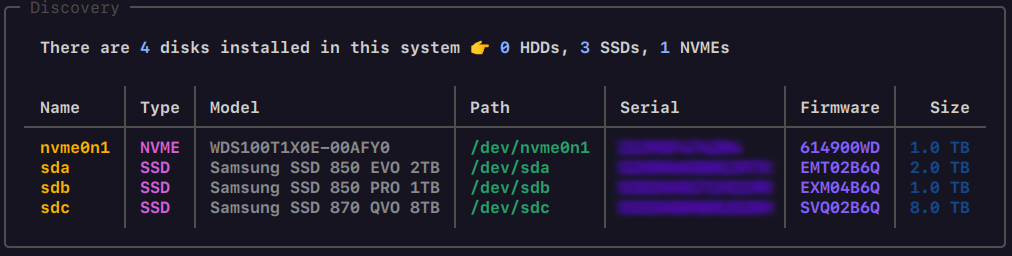
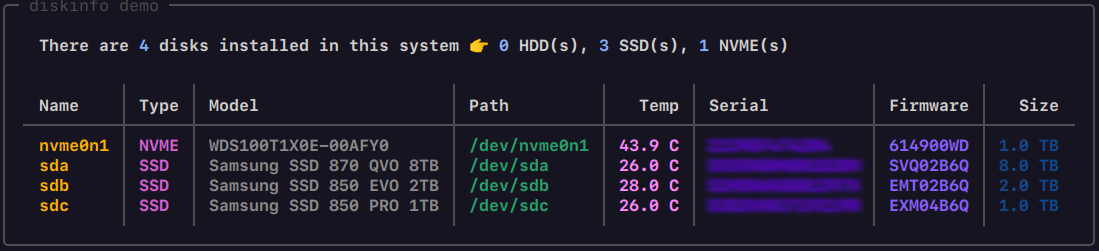
New: `Disk` class can return disk temperature (feature request in issue #2 implemented)

diff --git a/test/test_disk.py b/test/test_disk.py
@@ -2,6 +2,7 @@
 #    Unitest for `disk` module
 #    Peter Sulyok (C) 2022.
 #
+import glob
 import os
 import shutil
 import random
@@ -17,11 +18,17 @@ class DiskTest(unittest.TestCase):
     def pt_init_p1(self, disk_name: str, disk_type: int, error: str) -> None:
         """Primitive positive test function. It contains the following steps:
             - create TestData class
-            - mock os.readlink(), os.listdir(), os.path.exists() and builtins.open() functions
+            - mock glob.glob(), os.readlink(), os.listdir(), os.path.exists() and builtins.open() functions
             - create Disk() class instance based on test data in all five ways
             - ASSERT: if any attribute of the class is different from the generated test data
             - delete all instance
         """
+
+        # Mock function for glob.glob().
+        def mocked_glob(file: str, *args, **kwargs):
+            if file.startswith('/sys/block'):
+                file = my_td.td_dir + file
+            return original_glob(file, *args, **kwargs)
 
         # Mock function for os.readlink().
         def mocked_readlink(path: str,  *args, **kwargs):
@@ -41,6 +48,8 @@ class DiskTest(unittest.TestCase):
 
         my_td = TestData()
         my_td.create_disks([disk_name], [disk_type])
+        original_glob = glob.glob
+        mock_glob = MagicMock(side_effect=mocked_glob)
         original_readlink = os.readlink
         mock_readlink = MagicMock(side_effect=mocked_readlink)
         original_listdir = os.listdir
@@ -49,7 +58,8 @@ class DiskTest(unittest.TestCase):
         mock_exists = MagicMock(side_effect=mocked_exists)
         original_open = open
         mock_open = MagicMock(side_effect=mocked_open)
-        with patch('os.readlink', mock_readlink), \
+        with patch('glob.glob', mock_glob), \
+             patch('os.readlink', mock_readlink), \
              patch('os.listdir', mock_listdir), \
              patch('os.path.exists', mock_exists), \
              patch('builtins.open', mock_open):
@@ -265,6 +275,113 @@ class DiskTest(unittest.TestCase):
         self.pt_gsih_p1(4398046511104, (4398046511104*512)/1000/1000/1000/1000/1000, "PB", 0, "get_size_in_hrf 16")
         self.pt_gsih_p1(4398046511104, (4398046511104*512)/1024/1024/1024/1024/1024, "PiB", 1, "get_size_in_hrf 17")
         self.pt_gsih_p1(4398046511104, (4398046511104*512)/1024/1024/1024/1024/1024, "PB", 2, "get_size_in_hrf 18")
+
+    def pt_gt_p1(self, disk_name: str, disk_type: int, error: str) -> None:
+        """Primitive positive test function. It contains the following steps:
+            - create TestData class
+            - mock glob.glob(), os.path.exists() and builtins.open() functions
+            - create Disk() class instance based on test data in all five ways
+            - call get_temperature() method
+            - ASSERT: if the returned temperature is different from the generated test data
+            - delete all instance
+        """
+
+        # Mock function for glob.glob().
+        def mocked_glob(file: str, *args, **kwargs):
+            if file.startswith('/sys/block'):
+                file = my_td.td_dir + file
+            return original_glob(file, *args, **kwargs)
+
+        # Mock function for os.path.exists().
+        def mocked_exists(path: str):
+            if not path.startswith(my_td.td_dir):
+                path = my_td.td_dir + path
+            return original_exists(path)
+
+        # Mock function for builtin.open().
+        def mocked_open(path: str,  *args, **kwargs):
+            if not path.startswith(my_td.td_dir):
+                path = my_td.td_dir + path
+            return original_open(path, *args, **kwargs)
+
+        my_td = TestData()
+        my_td.create_disks([disk_name], [disk_type])
+        original_glob = glob.glob
+        mock_glob = MagicMock(side_effect=mocked_glob)
+        original_exists = os.path.exists
+        mock_exists = MagicMock(side_effect=mocked_exists)
+        original_open = open
+        mock_open = MagicMock(side_effect=mocked_open)
+        with patch('glob.glob', mock_glob), \
+             patch('os.path.exists', mock_exists), \
+             patch('builtins.open', mock_open):
+            d = Disk(disk_name)
+            temp_str = Disk._read_file(my_td.disks[0].hwmon_path)
+            temp_val = float(temp_str) / 1000.0
+            self.assertEqual(d.get_temperature(), temp_val, error)
+            del d
+        del my_td
+
+    def pt_gt_n1(self, disk_name: str, disk_type: int, error: str) -> None:
+        """Primitive negative test function. It contains the following steps:
+            - create TestData class
+            - mock glob.glob(), os.path.exists() and builtins.open() functions
+            - create Disk() class instance
+            - call get_temperature() method
+            - ASSERT: if assertion is not raised in case of missing hwmon_path
+            - delete all instance
+        """
+
+        # Mock function for glob.glob().
+        def mocked_glob(file: str, *args, **kwargs):
+            if file.startswith('/sys/block'):
+                file = my_td.td_dir + file
+            return original_glob(file, *args, **kwargs)
+
+        # Mock function for os.path.exists().
+        def mocked_exists(path: str):
+            if not path.startswith(my_td.td_dir):
+                path = my_td.td_dir + path
+            return original_exists(path)
+
+        # Mock function for builtin.open().
+        def mocked_open(path: str,  *args, **kwargs):
+            if not path.startswith(my_td.td_dir):
+                path = my_td.td_dir + path
+            return original_open(path, *args, **kwargs)
+
+        my_td = TestData()
+        my_td.create_disks([disk_name], [disk_type])
+        original_glob = glob.glob
+        mock_glob = MagicMock(side_effect=mocked_glob)
+        original_exists = os.path.exists
+        mock_exists = MagicMock(side_effect=mocked_exists)
+        original_open = open
+        mock_open = MagicMock(side_effect=mocked_open)
+        with patch('glob.glob', mock_glob), \
+             patch('os.path.exists', mock_exists), \
+             patch('builtins.open', mock_open):
+            d = Disk(disk_name)
+            d._Disk__hwmon_path = None
+            with self.assertRaises(Exception) as cm:
+                d.get_temperature()
+            self.assertEqual(type(cm.exception), RuntimeError, error)
+            del d
+        del my_td
+
+    def test_get_temperature(self):
+        """Unit test for get_temperature method of Disk class."""
+
+        # Test valid functionality.
+        for i in range(20):
+            self.pt_gt_p1("nvme0n1", DiskType.NVME, "get_temperature 1")
+        self.pt_gt_p1("sda", DiskType.SSD, "get_temperature 2")
+        self.pt_gt_p1("sdb", DiskType.HDD, "get_temperature 3")
+
+        # Test assertino.
+        self.pt_gt_n1("nvme0n1", DiskType.NVME, "get_temperature 4")
+        self.pt_gt_n1("sda", DiskType.SSD, "get_temperature 5")
+        self.pt_gt_n1("sdb", DiskType.HDD, "get_temperature 6")
 
     def test_read_files(self):
         """Unit test for invalid file names in case of _read_file(), _read_udev_property(), _read_udev_path()."""

diff --git a/test/test_data.py b/test/test_data.py
@@ -7,6 +7,7 @@ import random
 import shutil
 import os
 import uuid
+import time
 from typing import List
 from diskinfo import DiskType
 
@@ -28,6 +29,7 @@ class TestDisk:
     log_bs: int
     byid_path: List[str]
     bypath_path: List[str]
+    hwmon_path: str
 
 
 class TestData:
@@ -49,7 +51,7 @@ class TestData:
         """Creates data for disks."""
 
         # Create high-level disk folders.
-        random.seed(1)
+        random.seed(time.monotonic())
         os.makedirs(self.td_dir + "/dev/disk/by-id/", exist_ok=True)
         os.makedirs(self.td_dir + "/dev/disk/by-path/", exist_ok=True)
         os.makedirs(self.td_dir + "/sys/block/", exist_ok=True)
@@ -82,6 +84,10 @@ class TestData:
                 td.byid_path = [self.td_dir + "/dev/disk/by-id/nvme-" + td.model.replace(" ", "_") +
                                 "_" + td.serial, self.td_dir + "/dev/disk/by-id/nvme-" + td.wwn]
                 td.bypath_path = [self.td_dir + "/dev/disk/by-path/pci-0000:00:17.0-nvme-" + str(1 + index)]
+                td.hwmon_path = random.choice([self.td_dir + "/sys/block/" + td.name + "/device/device/hwmon/hwmon" +
+                                               str(random.randint(0, 20)),
+                                               self.td_dir + "/sys/block/" + td.name + "/device/hwmon" +
+                                               str(random.randint(0, 20))])
 
             # Create an SSD type disk attributes
             elif dt == DiskType.SSD:
@@ -96,8 +102,10 @@ class TestData:
                                 "_" + td.serial, self.td_dir + "/dev/disk/by-id/wwn-" + td.wwn]
                 td.bypath_path = [self.td_dir + "/dev/disk/by-path/pci-0000:00:17.0-ata-" + str(1 + index),
                                   self.td_dir + "/dev/disk/by-path/pci-0000:00:17.0-ata-" + str(1 + index) + ".0"]
+                td.hwmon_path = self.td_dir + "/sys/block/" + td.name + "/device/hwmon/hwmon" + \
+                                str(random.randint(0, 20))
 
-            # Create a HDD type disk attributes
+            # Create an HDD type disk attributes
             else:  # if dt == DiskType.HDD:
                 td.model = "WDC WD100SLAX-69VNTN1"
                 td.wwn = "0x500" + self._get_random_alphanum_str(8)
@@ -110,6 +118,8 @@ class TestData:
                                 "_" + td.serial, self.td_dir + "/dev/disk/by-id/wwn-" + td.wwn]
                 td.bypath_path = [self.td_dir + "/dev/disk/by-path/pci-0000:00:17.0-ata-" + str(1 + index),
                                   self.td_dir + "/dev/disk/by-path/pci-0000:00:17.0-ata-" + str(1 + index) + ".0"]
+                td.hwmon_path = self.td_dir + "/sys/block/" + td.name + "/device/hwmon/hwmon" + \
+                                str(random.randint(0, 20))
 
             # Create further disk name based folders.
             os.makedirs(self.td_dir + "/sys/block/" + td.name + "/queue", exist_ok=True)
@@ -127,6 +137,9 @@ class TestData:
                 self._create_link(item, "../../" + td.name)
             for item in td.bypath_path:
                 self._create_link(item, "../../" + td.name)
+            os.makedirs(td.hwmon_path, exist_ok=True)
+            td.hwmon_path += "/temp1_input"
+            self._create_file(td.hwmon_path, str(random.randint(30, 65)*1000))
 
             # Create /run/udev/data/b"device:id" file.
             udev_content = \

diff --git a/src/diskinfo/disk.py b/src/diskinfo/disk.py
@@ -2,8 +2,9 @@
 #    Module `disk`: implements classes `DiskType` and `Disk`.
 #    Peter Sulyok (C) 2022.
 #
+import glob
 import os
-from typing import List, Tuple
+from typing import List, Tuple, Callable
 
 
 class DiskType:
@@ -81,7 +82,7 @@ class Disk:
     __logical_block_size: int           # Disk logical block size
     __part_table_type: str              # Disk partition table type
     __part_table_uuid: str              # Disk partition table UUID
-    __device_hwmon_path: str            # Path of the hwmon temperature file
+    __hwmon_path: str                   # Path for the HWMON temperature file
 
     def __init__(self, disk_name: str = None, byid_name: str = None, bypath_name: str = None,
                  serial_number: str = None, wwn_name: str = None) -> None:
@@ -170,6 +171,25 @@ class Disk:
         for file_name in self.__bypath_path:
             if not os.path.exists(file_name):
                 raise RuntimeError("Disk by-path path (" + file_name + ") does not exist!")
+
+        # Find the path for HWMON file of the disk.
+        # Step 1: Check typical HWMON path for HDD, SSD disks
+        path = "/sys/block/" + self.__name + "/device/hwmon/hwmon*/temp1_input"
+        file_names = glob.glob(path)
+        if file_names and os.path.exists(file_names[0]):
+            self.__hwmon_path = file_names[0]
+        else:
+            # Step 2: Check HWMON path for NVME disks in Linux kernel 5.10-5.18?
+            path = "/sys/block/" + self.__name + "/device/device/hwmon/hwmon*/temp1_input"
+            file_names = glob.glob(path)
+            if file_names and os.path.exists(file_names[0]):
+                self.__hwmon_path = file_names[0]
+            else:
+                # Step 3: Check HWMON path for NVME disks in Linux kernel 5.19+?
+                path = "/sys/block/" + self.__name + "/device/hwmon*/temp1_input"
+                file_names = glob.glob(path)
+                if file_names and os.path.exists(file_names[0]):
+                    self.__hwmon_path = file_names[0]
 
     def get_name(self) -> str:
         """Returns the disk name."""
@@ -312,6 +332,26 @@ class Disk:
     def get_partition_table_uuid(self) -> str:
         """Returns the UUID of the partition table on the disk."""
         return self.__part_table_uuid
+
+    def get_temperature(self) -> float:
+        """Returns the disk temperature. Important notes about using this function:
+
+            - This function relies on Linux kernel HWMON system, and the required functionality is available
+              from Linux kernel version ``5.6``.
+            - NVME disks do not require to load any kernel driver (this is a built-in functionality).
+            - SATA SSDs and HDDs require to load ``drivetemp`` kernel module! Without this the HWMON system
+              will not provide the temperature information.
+            - :py:obj:`RuntimeError` exception will be raised if the HWMON file cannot be found
+
+        Returns:
+            float: temperature in C degree
+
+        Raises:
+              RuntimeError: HWMON file cannot be found for this disk
+        """
+        if not self.__hwmon_path:
+            raise RuntimeError("HWMON file cannot be found for this disk.")
+        return float(int(self._read_file(self.__hwmon_path)) / 1000)
 
     @staticmethod
     def _read_file(path) -> str:

diff --git a/src/diskinfo/demo.py b/src/diskinfo/demo.py
@@ -35,23 +35,24 @@ def main():
     # Rich demo.
     if RICH:
         panel = Panel(f"[markdown.strong]There {verb} [bold sky_blue2]{disk_num}[/] disk{plural} installed in this"
-                      f" system :point_right: [bold sky_blue2]{hdd_num}[/] HDDs, [bold sky_blue2]{ssd_num}[/]"
-                      f" SSDs, [bold sky_blue2]{nvme_num}[/] NVMEs[/]", box=box.MINIMAL, expand=False)
+                      f" system :point_right: [bold sky_blue2]{hdd_num}[/] HDD(s), [bold sky_blue2]{ssd_num}[/]"
+                      f" SSD(s), [bold sky_blue2]{nvme_num}[/] NVME(s)[/]", box=box.MINIMAL, expand=False)
         table = Table(border_style="gray30", box=box.MINIMAL)
         table.add_column("Name", justify="left", style="bold orange1")
         table.add_column("Type", justify="left", style="bold orchid")
         table.add_column("Model", justify="left", style="bold gray54")
         table.add_column("Path", justify="left", style="bold green")
+        table.add_column("Temp", justify="right", style="bold orchid1")
         table.add_column("Serial", justify="left", style="bold purple3")
         table.add_column("Firmware", justify="left", style="bold slate_blue1")
         table.add_column("Size", justify="right", style="bold blue")
         disks = di.get_disk_list(sorting=True)
         for d in disks:
             s, u = d.get_size_in_hrf()
-            table.add_row(d.get_name(), d.get_type_str(), d.get_model(), d.get_path(), d.get_serial_number(),
-                          d.get_firmware(), f"{s:.1f} {u}")
+            table.add_row(d.get_name(), d.get_type_str(), d.get_model(), d.get_path(), f"{d.get_temperature():.1f} C",
+                          d.get_serial_number(), d.get_firmware(), f"{s:.1f} {u}")
         group = Group(panel, table)
-        rprint(Panel(group, title="Discovery", title_align="left", border_style="gray30", expand=False))
+        rprint(Panel(group, title="diskinfo demo", title_align="left", border_style="gray30", expand=False))
 
     # Normal demo.
     else:
@@ -67,6 +68,7 @@ def main():
             print(f"\tsize:                     {s:.1f} {u}")
             print(f"\tserial:                   {d.get_serial_number()}")
             print(f"\tfirmware:                 {d.get_firmware()}")
+            print(f"\ttemperature:              {d.get_temperature():.1f} C")
             print(f"\tdevice type:              {d.get_type_str()}")
             print(f"\tby-id path:               {d.get_byid_path()}")
             print(f"\tby-path path:             {d.get_bypath_path()}")
